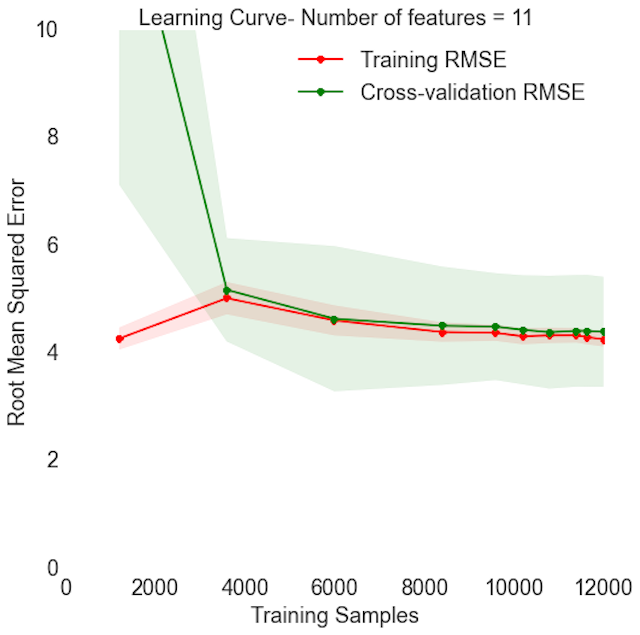
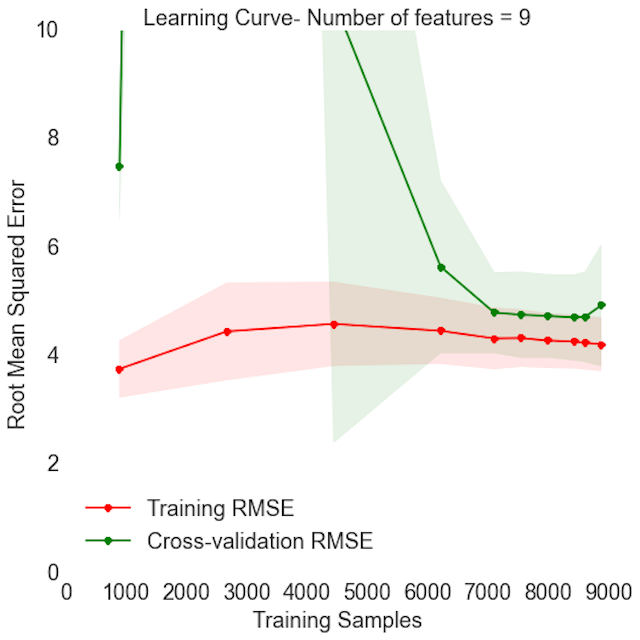
added more stuff to the data page

diff --git a/clean_blog_page/data.html b/clean_blog_page/data.html
@@ -119,16 +119,16 @@
                         </p>
                         <img src="img/data3.png" class="img-responsive center-block space max_width" alt="">
                         <p>
-                            The plot above is a comparison between the ozone values predicted by a linear regression model, using the data from the low-cost sensors, and the ozone values measured by a reference instrument. The root-mean-square error (RMSE) for this regression is 6&thinsp;ppb, which means that there is a 6&thinsp;ppb difference between the reference ozone concentration measurements and the model predictions. This RMSE is very good, especially when you consider the fact that we're comparing the performance of a $10 sensor to a $10,000+ reference instrument. However, when we look at this plot, we can see that at high ozone values, the model always underpredicts ozone (15&#2000;% underprediction when concentration > 60&thinsp;ppb and 22&thinsp;% underprediction when concentration > 70&thinsp;ppb). Since exposure to high ozone concentrations can negatively impact health, researchers are most concerned about these high ozone values. Without plotting this data, one could conclude that this model is a great fit, but this plot instantly makes it clear that it does not work well at high values.
+                            The plot above is a comparison between the ozone values predicted by a linear regression model, using the data from the low-cost sensors, and the ozone values measured by a reference instrument. The root-mean-square error (RMSE) for this regression is 6&thinsp;ppb, which means that there is a 6&thinsp;ppb difference between the reference ozone concentration measurements and the model predictions. This RMSE is very good, especially when you consider the fact that we're comparing the performance of a $10 sensor to a $10,000+ reference instrument. However, when we look at this plot, we can see that at high ozone values, the model always underpredicts ozone (15&thinsp;% underprediction when concentration > 60&thinsp;ppb and 22&thinsp;% underprediction when concentration > 70&thinsp;ppb). Since exposure to high ozone concentrations can negatively impact health, researchers are most concerned about these high ozone values. Without plotting this data, one could conclude that this model is a great fit, but this plot instantly makes it clear that it does not work well at high values.
                         </p>
                         <img src="img/data4.png" class="img-responsive center-block space max_width" alt=""> 
                         <p>
-                            To reduce the model's underprediction at high values, I transformed the base features (ozone sensor signal, temperature and humidity) to create 321 new features. The plot above shows a linear regression with all 324 features. Adding the new features to the regression reduced the magnitude of the underprediction from at high values from 7% to 5%. As expected when adding a large number of features, the variance increased, and the RMSE increased from 6&thinsp;ppb to 7&thinsp;ppb. 
+                            To reduce the model's underprediction at high values, I transformed the base features (ozone sensor signal, temperature and humidity) to create 321 new features. The plot above shows a linear regression with all 324 features. Adding the new features to the regression reduced the magnitude of the underprediction from at high values to 5&thinsp;% and 7&thinsp;% (when reference ozone concentration > 60&thinsp;ppb and 70&thinsp;ppb, respectively). As expected when adding a large number of features, the variance increased, and the RMSE increased from 6&thinsp;ppb to 7&thinsp;ppb. 
                         </p>
                        
                         <img src="img/data1.png" class="img-responsive center-block space max_width" alt=""> 
                         <p>
-                        It is always best to use the simplest model possible, and reducing the number of features in a model is one way to reduce variance, so the next thing I did was select the most important features. I used forward selection, and wrote an algorithm to choose each feature based on minimizing a custom error function. The custom function is a sum of the RMSE at high and low ozone values, with errors at high values weighted ten times as much as those at low values. The plot above shows how the custom error and RMSE change as each next-best feature is added to the regression. Based on the plot above, I would probably select between 7 and 11 features for my model, but I also looked at learning curves to evaluate when adding features starts to lead to overfitting. 
+                        It is always best to use the simplest model possible, and reducing the number of features in a model is one way to reduce variance, so the next thing I did was select the most important features. I used forward selection, and wrote an algorithm to choose each feature based on minimizing a custom error function. The custom function is a sum of the RMSE at high and low ozone values, with errors at high values weighted ten times as much as those at low values. The plot above shows how the custom error and RMSE change as each next-best feature is added to the regression. Based on the plot above, I would probably select between 5 and 9 features for my model, but I also looked at learning curves to evaluate when adding features starts to lead to overfitting. 
                         </p>
 
                         <img src="img/data5.png" class="img-responsive center-block space max_width" alt=""> 
@@ -138,8 +138,16 @@
 
                         <img src="img/data6.png" class="img-responsive center-block space max_width" alt=""> 
                         <p>
-                        I plotted a learning curve for each feature that I added to the model. By looking through the curves, and seeing how they change with each feature, I can tell if and when adding more features leads to overfitting. The learning curve above is for the maximum number of features I'm considering, and the training and cross-validation lines are close together, so the model does not have a variance problem, and including up to 11 features in the model should not lead to overfitting. See my IPython notebook on <a class = "neutral" href="https://github.com/balmandhunter/Regressions_machine_learning/blob/master/CAMP_calibrations.ipynb">GitHub</a> to view all of the learning curves. 
+                        I plotted a learning curve for each feature that I added to the model. By looking through the curves, and seeing how they change with each feature, I can tell if and when adding more features leads to overfitting. The learning curve above is for the maximum number of features I'm considering, and the training and cross-validation lines are close together, so the model does not have a variance problem, and including up to 9 features in the model should not lead to overfitting. See my IPython notebook on <a class = "neutral" href="https://github.com/balmandhunter/Regressions_machine_learning/blob/master/CAMP_calibrations.ipynb">GitHub</a> to view the learning curves for the best 30 features. 
                         </p>
+
+                        <img src="img/data7.png" class="img-responsive center-block space max_width" alt=""> 
+                        <img src="img/data8.png" class="img-responsive center-block space max_width" alt=""> 
+
+                        <p>
+                        Another method for reducing variance is to reduce the number of features in a model (and/or the magnitude of their coefficients) using a shrinkage penalty. The plots above are visualizations that aid in the selection of the shrinkage parameter, lambda, for the <a class = "neutral" href="http://statweb.stanford.edu/~tibs/lasso/lasso.pdf">lasso</a> reduction method. The higher the value of lambda, the larger the penalty placed on high coefficient values. The top plot visualizes how the coefficients change as lambda is increased, and the bottom plot shows how the custom error function I defined varies with lambda. The optimal lambda value is the one that results in the lowest error. 
+                        </p>
+
                     </div>
 
 
